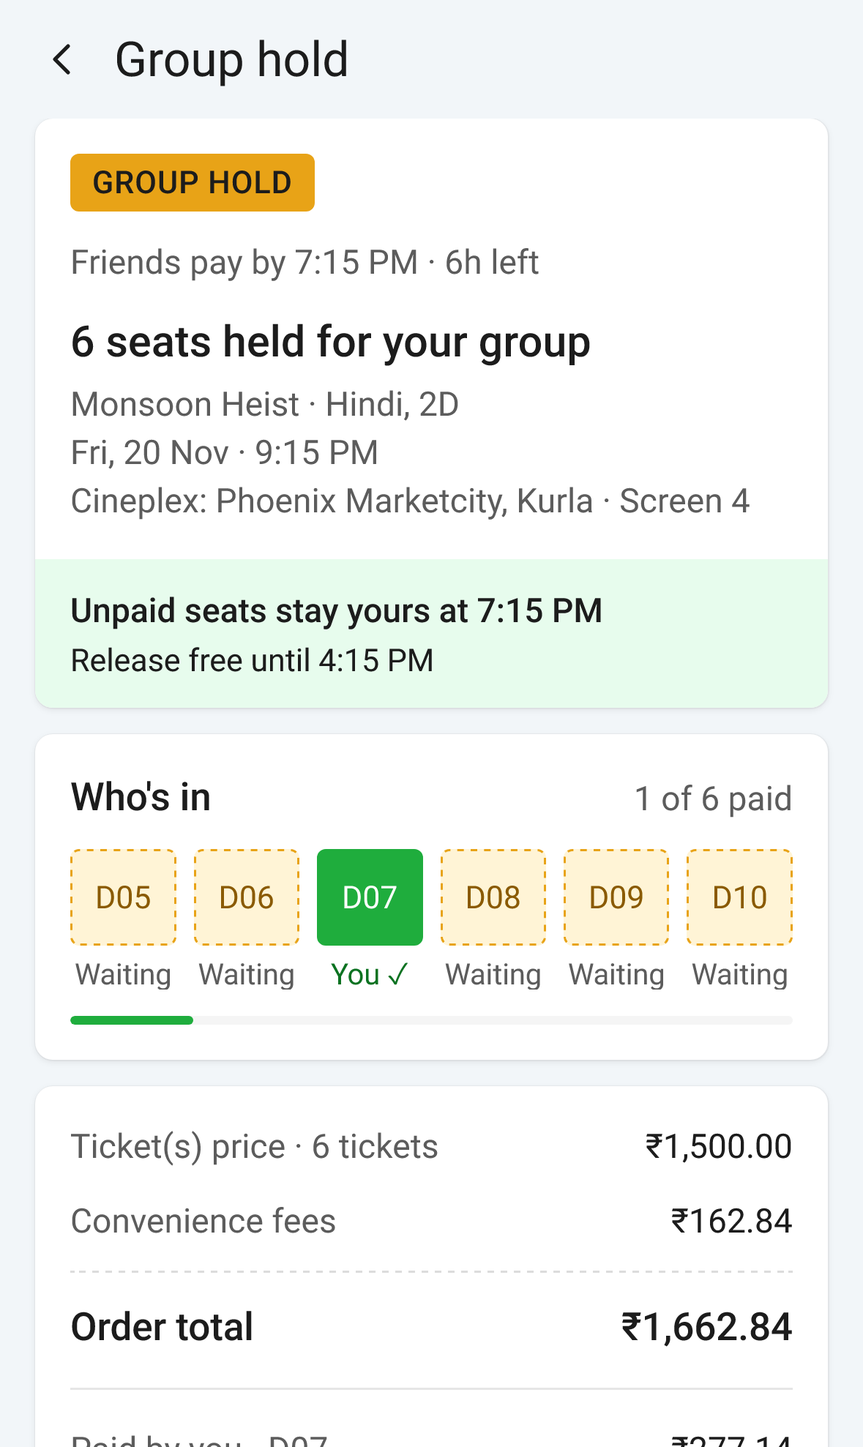
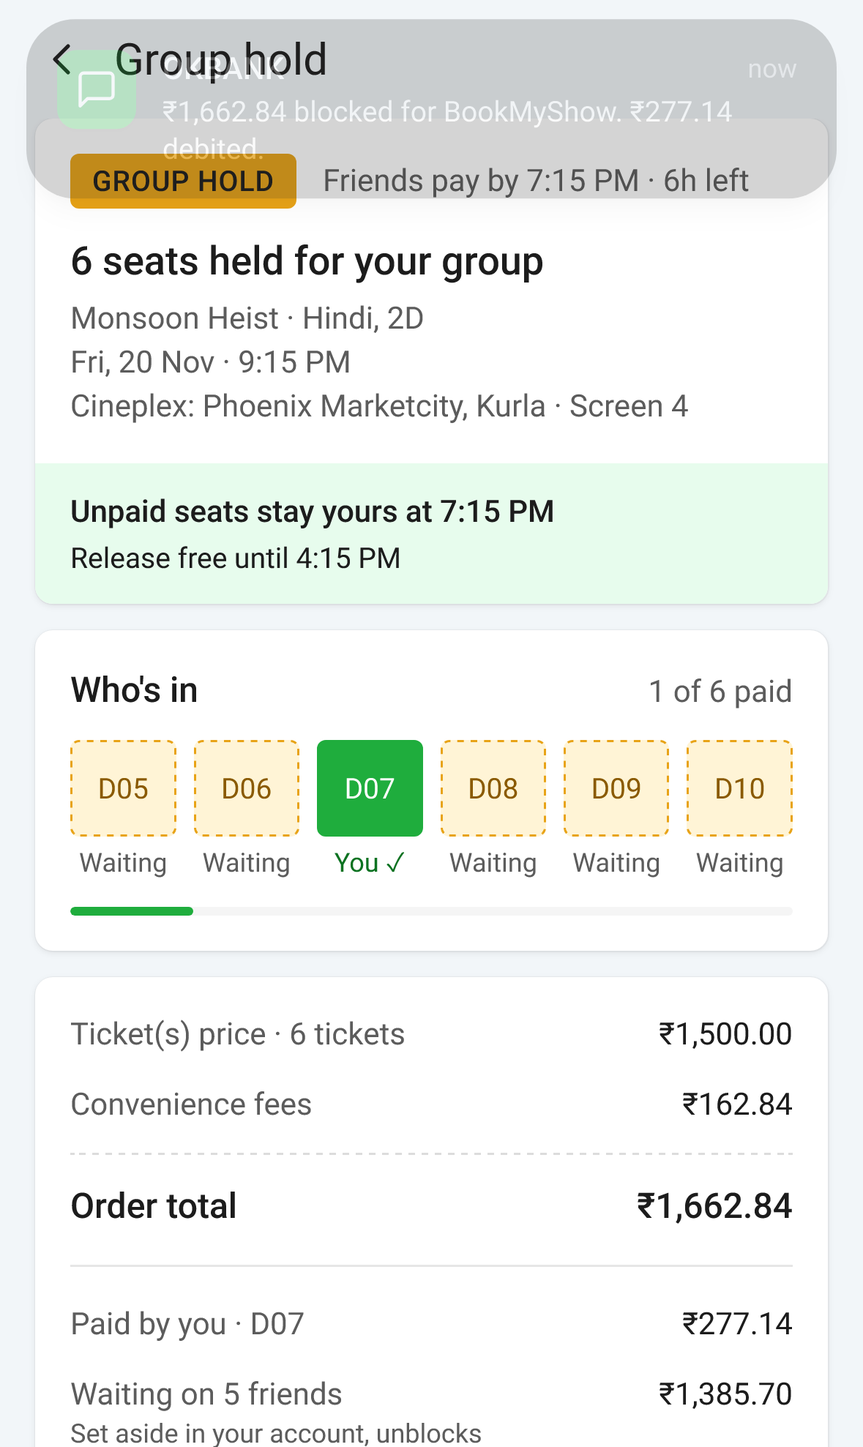
08 failures, QA, README
- Payment fallback ladder (UPI Reserve Pay -> card pre-auth -> pay all now, refunded per friend)
- Every remaining spec section 5 failure reachable from Try a failure (21 items, 4 groups) with plain copy
- QA: accessible names, 44 pt targets, 4.5:1 contrast (brand fills logged), focus trap, reduced motion
- Production: dev-only overlay, no reference screens in dist, own icon, title, manifest
- README for reviewers; decisions D-109 to D-120

diff --git a/README.md b/README.md
@@ -1,74 +1,105 @@
-# Group Hold prototype: starter kit
+# Group Hold · a BookMyShow prototype
 
-Everything an AI coding agent needs to build the BookMyShow **Group Hold** prototype for iPhone 17, with the same inputs for **Antigravity** and **Claude Code** so you can compare their outputs.
+**Group Hold** lets one person lock seats for a group without paying for everyone. Rohan pays for his own seat and *blocks* (doesn't pay) his five friends' shares with one UPI PIN, so the seats are locked at once. He shares a link; each friend picks a seat and pays BookMyShow directly. Every time a friend pays, that share is unblocked in Rohan's account. At a deadline set by the show's demand, Rohan keeps or releases any unpaid seats, and the rest of the block is unblocked. **Every held seat ends up paid**, and nobody has to chase friends for money.
 
-## What's in the kit
+This is a high-fidelity, interactive prototype for a 48-hour product design assignment, built to look like the BookMyShow iOS app on an iPhone 17 (402 × 874 pt). The film, cinema, people and banks are fictional. Nothing is charged.
 
-```
-AGENTS.md                      shared rules (both tools read this)
-CLAUDE.md                      Claude Code: imports AGENTS.md + its own verification loop
-GEMINI.md                      Antigravity: browser verification, plan artifacts
-.agents/rules/                 Antigravity modular rules (design fidelity, logic)
-.github/workflows/deploy.yml   GitHub Pages deploy on every push to main
-docs/spec.md                   THE spec: rules, timers, copy, demo data, failures, tutorial
-docs/design-system.md          tokens + component specs reconstructed from screenshots
-docs/tokens.css                CSS variables (the only colours components may use)
-docs/device-iphone17.md        402 × 874 frame, safe areas, real-iPhone behaviour
-reference/screens/             12 real BookMyShow screenshots, renamed by screen
-reference/README.md            what each screenshot is for, scale factor (1 px = 0.546 pt)
-prompts/antigravity/00–08      9 prompts, Antigravity wording
-prompts/claude-code/00–08      the same 9 prompts, Claude Code wording
-```
+## Live prototype
 
-## Prerequisites checklist
+**https://jobeljiji-glitch.github.io/Navi-Design-Task/**
 
-**Accounts and tools**
-- [ ] GitHub account; **public** repo (free GitHub Pages needs public, or use Vercel for private)
-- [ ] Node.js **22 LTS** and Git installed (Claude Code's npm install needs Node 22+)
-- [ ] Antigravity installed and signed in
-- [ ] Claude Code installed and signed in (needs a Pro, Max, Team or Enterprise plan). Windows: `irm https://claude.ai/install.ps1 | iex` in PowerShell
-- [ ] An iPhone for the final check (Safari, Add to Home Screen)
+> **Best view:** open the link on your phone, then **Share → Add to Home Screen** and launch it from there. It opens full screen like the real app, with correct safe areas. On a laptop you get the phone in the middle with the story on the left and the controls on the right.
 
-**Setup (10 minutes)**
-1. Create **two** public repos to compare fairly, e.g. `group-hold-ag` and `group-hold-cc`.
-2. Copy this whole kit into the root of each and push.
-3. In each repo: Settings → Pages → Source: **GitHub Actions**.
-4. Open `group-hold-ag` in Antigravity and `group-hold-cc` in Claude Code.
-5. Run the prompts in order, one at a time: `00` → `08`. Don't start the next one until the previous one's acceptance checks pass.
-6. After each prompt, compare both deploys on your phone and keep notes on which is closer. You can also switch tools midway: both repos share the same structure.
+## The guided demo (2 minutes)
 
-**Windows step-by-step:** see `SETUP-WINDOWS.md`.
+1. Open the link. The intro card offers **Start tour** or **Explore on my own**.
+2. The tour has 14 steps on one phone that changes hands: Rohan books and holds the seats, Amit pays from the shared link, Neha can't make it, the deadline arrives, and Kabir pays late.
+3. In each coach bubble, **Next** performs the highlighted tap for you; you can also tap the real element yourself. **Back** replays the previous step. **Skip tour** (or Esc) leaves everything usable. On a keyboard, ← and → move between steps.
+4. At the end, the done card shows the payoff: what Rohan paid in the end, how many friends he chased, and how many seats were left empty.
+5. **Explore freely** opens the controls. On a laptop they're in the right column; on a phone, tap the **Demo** bar at the top. From there you can switch phones (Rohan, Amit, Sana, Priya, Neha, Kabir), move the clock, jump to a moment, try a failure, or restart. **Replay** starts the tour again.
 
-**Optional, but improves accuracy a lot.** Capture these extra screenshots (iPhone, same way as before) and add them to `reference/screens/` with a line in `reference/README.md`:
-- [ ] **M-ticket / booking confirmed** screen (pattern for the friend's ticket)
-- [ ] **A real BookMyShow link shared into a WhatsApp chat** (share any movie from the app): the real preview card layout
-- [ ] BookMyShow **login / OTP** screen (pattern for the friend's phone verification)
+## Deep links to key moments
 
-## How accuracy is achieved (and why it beats prompting alone)
+Base: `https://jobeljiji-glitch.github.io/Navi-Design-Task/`
 
-1. **Screenshots are the source of truth.** No official BookMyShow design kit exists; online "UI kits" are unofficial redesigns, so the kit doesn't use them.
-2. **Measured tokens.** Colours were sampled and sizes measured from the screenshots (see `docs/design-system.md`), each marked measured or estimated.
-3. **Rebuild real screens first** (prompt 03). New screens then inherit a proven visual language.
-4. **Reference overlay** in the app (`?overlay=1`, press `O`): the real screenshot over your build, with an opacity slider and difference mode.
-5. **Screenshot loop** after every screen (Antigravity's built-in browser; Playwright screenshots for Claude Code).
-6. **Spec-driven logic with tests** (prompt 01), so screens never invent behaviour.
-7. **Real-device check** on GitHub Pages at the end.
-
-## Rough time budget
-
-| Prompt | Hours |
+| Moment | Link |
 | --- | --- |
-| 00 setup | 0.5 |
-| 01 logic | 1.5 |
-| 02 design system | 1.5 |
-| 03 baseline screens | 1.5 |
-| 04 Rohan hold | 1.5 |
-| 05 share + friend | 1.5 |
-| 06 board + deadline | 1.5 |
-| 07 demo stage + tutorial | 1.5 |
-| 08 failures + QA | 1 |
-| **Total** | **≈ 12** (fits the Build phase H20–H32) |
+| Guided tour, from the start | [`#/`](https://jobeljiji-glitch.github.io/Navi-Design-Task/#/) |
+| Tour at step N (1–14) | [`#/?step=3`](https://jobeljiji-glitch.github.io/Navi-Design-Task/#/?step=3) |
+| Group status board | [`#/?explore=1&moment=board`](https://jobeljiji-glitch.github.io/Navi-Design-Task/#/?explore=1&moment=board) |
+| Release a seat (Neha can't make it) | [`#/?explore=1&moment=release`](https://jobeljiji-glitch.github.io/Navi-Design-Task/#/?explore=1&moment=release) |
+| 30 minutes left: keep or release | [`#/?explore=1&moment=t30`](https://jobeljiji-glitch.github.io/Navi-Design-Task/#/?explore=1&moment=t30) |
+| Deadline: settlement animation | [`#/?explore=1&moment=settlement`](https://jobeljiji-glitch.github.io/Navi-Design-Task/#/?explore=1&moment=settlement) |
+| Receipt ("Your group is set") | [`#/?explore=1&moment=receipt`](https://jobeljiji-glitch.github.io/Navi-Design-Task/#/?explore=1&moment=receipt) |
+| Late payer (Kabir pays for the kept seat) | [`#/?explore=1&moment=late`](https://jobeljiji-glitch.github.io/Navi-Design-Task/#/?explore=1&moment=late) |
+| A friend's pay page on its own (no frame) | [`#/friend/amit`](https://jobeljiji-glitch.github.io/Navi-Design-Task/#/friend/amit) |
+| Component gallery | [`#/kit`](https://jobeljiji-glitch.github.io/Navi-Design-Task/#/kit) |
 
-## Notes
-- Everything in the prototype is fictional: film "Monsoon Heist", "Cineplex" cinema, friends' names. No real posters or logos.
-- If you change a decision, change `docs/spec.md` first, then tell the agent to re-read it.
+### Failure states
+
+Each one is also under **Try a failure** in the demo controls. Link pattern: `#/?explore=1&failure=<id>`.
+
+| Failure | id | What you see |
+| --- | --- | --- |
+| Less than 3 h to the show (#1) | [`under-3h`](https://jobeljiji-glitch.github.io/Navi-Design-Task/#/?explore=1&failure=under-3h) | Tap **Hold for group**: "Group holds close 3 hours before the show". Pay is still there. |
+| Group holds full on a high-demand show (#2) | [`cap`](https://jobeljiji-glitch.github.io/Navi-Design-Task/#/?explore=1&failure=cap) | "Group holds are full for this show. Book now to keep these seats." |
+| Second hold on the same show (#3) | [`second-hold`](https://jobeljiji-glitch.github.io/Navi-Design-Task/#/?explore=1&failure=second-hold) | "You're already holding seats for this show." + **View hold** |
+| 2 holds already running on the account | [`two-holds`](https://jobeljiji-glitch.github.io/Navi-Design-Task/#/?explore=1&failure=two-holds) | "You already have 2 group holds running. Book these seats now, or finish a hold first." |
+| Fewer than 3 seats | [`two-seats`](https://jobeljiji-glitch.github.io/Navi-Design-Task/#/?explore=1&failure=two-seats) | Hold for group is hidden; "Group holds need 3 or more seats." |
+| Bank can't block (#4, #5): card instead | [`no-blocking`](https://jobeljiji-glitch.github.io/Navi-Design-Task/#/?explore=1&failure=no-blocking) | Payment ladder rung 2: hold ₹1,662.84 on a card, ₹277.14 charged now |
+| No card hold either (#4): pay all now | [`no-card`](https://jobeljiji-glitch.github.io/Navi-Design-Task/#/?explore=1&failure=no-card) | Rung 3: Pay ₹1,662.84; "Refunded ₹1,385.70 · as each friend pays" |
+| UPI block declined (#6) | [`upi-declined`](https://jobeljiji-glitch.github.io/Navi-Design-Task/#/?explore=1&failure=upi-declined) | "Block not approved. Try again or pay for all 6." / "We're holding these seats for you until 1:25 PM." |
+| Bank doesn't respond | [`bank-timeout`](https://jobeljiji-glitch.github.io/Navi-Design-Task/#/?explore=1&failure=bank-timeout) | Approve with any PIN; "Your bank didn't respond, so nothing was set aside or charged." |
+| Own payment fails, block works (#7) | [`own-fails`](https://jobeljiji-glitch.github.io/Navi-Design-Task/#/?explore=1&failure=own-fails) | Approve with any PIN; the whole hold is undone, seats stay selected |
+| Rohan cancels the block in his UPI app (#8) | [`cancel-block`](https://jobeljiji-glitch.github.io/Navi-Design-Task/#/?explore=1&failure=cancel-block) | Alert: unpaid seats released, paid seats unaffected |
+| Two friends pick the same seat (#10) | [`conflict`](https://jobeljiji-glitch.github.io/Navi-Design-Task/#/?explore=1&failure=conflict) | "Someone's paying for D09 right now. Pick another seat." |
+| A friend's bank declines (#12) | [`friend-fails`](https://jobeljiji-glitch.github.io/Navi-Design-Task/#/?explore=1&failure=friend-fails) | "Payment didn't go through. D10 is still yours for 5 minutes." |
+| "Can't make it" (#17) | [`cant-make-it`](https://jobeljiji-glitch.github.io/Navi-Design-Task/#/?explore=1&failure=cant-make-it) | Rohan is told at once: release a seat or keep it |
+| Payment pending at the deadline (#19) | [`pending`](https://jobeljiji-glitch.github.io/Navi-Design-Task/#/?explore=1&failure=pending) | 10-minute grace; the seat stays theirs |
+| Nobody responds (#20) | [`nobody`](https://jobeljiji-glitch.github.io/Navi-Design-Task/#/?explore=1&failure=nobody) | Default keep: unpaid seats charged from the block |
+| Late friend pays for a kept seat (#23) | [`late`](https://jobeljiji-glitch.github.io/Navi-Design-Task/#/?explore=1&failure=late) | Ticket moves to Kabir; Rohan refunded ₹277.14 |
+| Late payment still pending at showtime | [`showtime-pending`](https://jobeljiji-glitch.github.io/Navi-Design-Task/#/?explore=1&failure=showtime-pending) | The seat stays Kabir's while the bank confirms (until 9:25 PM); it clears a moment later |
+| …and the bank never confirms | [`showtime-expired`](https://jobeljiji-glitch.github.io/Navi-Design-Task/#/?explore=1&failure=showtime-expired) | Kabir isn't charged; Rohan still has the ticket |
+| Link opened after the show (#25) | [`after-show`](https://jobeljiji-glitch.github.io/Navi-Design-Task/#/?explore=1&failure=after-show) | "This show has started." + a way on (See other shows) |
+| Cinema cancels the show (#27) | [`cinema`](https://jobeljiji-glitch.github.io/Navi-Design-Task/#/?explore=1&failure=cinema) | Full refund for everyone, including fees; block released |
+
+## What's simulated
+
+- **No backend, no real money.** All state lives in the browser and resets on reload or with **Restart demo**.
+- **Clock:** a simulated clock (Fri 20 Nov 2026, from 1:10 PM). The controls jump it to halfway, T−30, the deadline, after grace, 8:10 PM or showtime, and the timers fire as they would.
+- **Banks and UPI:** a generic UPI app (any 4-digit PIN works), a generic card check (any code), and a fictional bank ("OKBANK") that sends SMS banners. UPI Reserve Pay, card pre-authorisation and refunds are modelled, not connected.
+- **Friends:** five fictional friends. Phone OTP accepts any 4 digits. The chat is labelled "Chat (simulated)".
+- **Out of scope:** home feed, search, food, offers, reviews, login, settings and a real backend.
+
+## Tech note
+
+- Vite + React 18 + TypeScript (strict), Tailwind mapped to CSS variables in `docs/tokens.css` (no raw colours in components), Zustand, Motion, lucide-react, qrcode.react. Hash routing for GitHub Pages; deployed by `.github/workflows/deploy.yml` on every push to `main`.
+- **Logic is pure and tested.** `src/logic/` holds no React and never reads the real time. Five reducer layers each wrap the previous one: base rules → `holdFlow` → `friendFlow` → `boardFlow` → `failureFlow`. Screens only read selectors and dispatch actions. Money is integer paise.
+- **Tests:** `npm test` (Vitest, 115 tests: spec §1 scripted outcome, every §3 rule, every §5 failure, the tour, a copy lint for banned wording and weights, and "friend-facing screens never name unpaid friends"). `npm run test:e2e` (Playwright, WebKit + Chromium on an iPhone viewport: cards never clip at 110 % text, accessibility audit on every route and failure covering names, 44 pt targets, 4.5:1 contrast, weights and focus, plus mobile bar and top-chrome checks).
+- **Bundle (production, gzip):** entry 55.9 kB; each route loads on demand (demo stage 14.2 kB, Rohan's flow 19.7 kB, friend flow 6.2 kB, plus shared chunks). The reference overlay and reference screenshots are dev-only and aren't shipped.
+- Decisions not covered by the spec are logged one line each in `docs/decisions.md`.
+
+## Run it locally
+
+```bash
+npm install
+npm run dev          # http://localhost:5173/Navi-Design-Task/
+npm test             # logic tests
+npm run test:e2e     # layout + accessibility (starts its own dev server)
+npm run build        # production build in dist/
+```
+
+Dev only: add `?overlay=1` (or press `O`) to compare a screen with its reference screenshot.
+
+## Repo layout
+
+```
+src/logic/   pure domain: rules, reducers, selectors, money, script, tour (unit-tested)
+src/store/   Zustand store over the reducer stack
+src/ds/      design-system components (tokens only)
+src/screens/ rohan/, friend/, chat/
+src/demo/    demo stage, coach marks, controls
+docs/        spec, design system, tokens, device notes, decisions
+reference/   real-app screenshots used for fidelity checks (not shipped)
+prompts/     the build prompts this prototype was made from
+```

diff --git a/docs/decisions.md b/docs/decisions.md
@@ -112,3 +112,15 @@ This file is maintained by agents. Each entry records a choice that isn't obviou
 | D-106 | 07b Phone stage = 100dvh column [demo bar][app viewport] | Supersedes D-098. Real-iPhone bug: the bar was stacked over a full-height fixed frame, pushing screens down ~60 pt and clipping bottom CTAs and sheets. Now on ≤ 430 px the stage is a flex column of exactly 100dvh: the bar (when open) is in the flow, below `env(safe-area-inset-top)`, and the app viewport is `flex:1; min-height:0`. Its measured height is published as `--app-h` (ResizeObserver on the stage column; `:root` default 100dvh, 100vh fallback). The full-screen DeviceFrame is sized from `--app-h` (standalone: fixed, top 0, `height: var(--app-h)`; inside the stage: absolute, inset 0), so screens, sticky footers, BottomSheets (88%), scrims, the interstitial (now absolute) and iOS banners all follow the app viewport. With the bar open the frame drops its own top inset; the bottom inset stays with the frame (`--sab`/`cta-safe`, no double counting). No 100vh/100dvh/h-screen remain inside screens. Desktop frame unchanged. |
 | D-107 | 07b Demo bar: 40 pt, collapsible | 40 pt (`--stage-bar`), 13 pt text: "Group Hold demo ⌃" · persona ▾ · clock ▾ · ⋯ (28 pt chips). Tapping the title collapses it to a 28 pt "Demo ⌄" tab at the top-right edge that overlays the app and takes no height; tapping the tab opens it again. Remembered for the session in sessionStorage, separately for the tour (default collapsed: the coach bubble has the controls) and explore (default open). Explore deep link `&phone=/rohan/…` opens the phone on a screen (tests). Guarded by `e2e/mobile-bar.spec.ts` (WebKit iPhone, bar open and collapsed): seat-layout Hold/Pay bar, hold-sheet CTA, Confirm "Continue" and the board's last action are inside the visual viewport and the app viewport, and nothing covers them; the app viewport reaches the screen bottom and the frame fills it exactly. |
 | D-108 | 07c Top chrome colour on iPhone | Audit: none of our overlays paint the top while inactive (interstitial, iOS banner and its backdrop blur, sheet scrims and the coach ring are unmounted when not in use; `e2e/top-chrome.spec.ts` checks the top band for gradients, backdrop filters, masks, translucent whites and dimmed full-width layers). The white wash came from the page shell: a fixed `theme-color: #ffffff`, status bar style `default` and a light html/body. Now `useTopChrome` sets `<meta name="theme-color">`, html and body to the colour at the top: the demo bar (`--stage-ink`) when it's open or the intro shows; the current screen's header, sampled under the inset (stage overlays ignored), when collapsed, re-sampled on persona/screen change; `--stage-bg` for framed layouts; white again when leaving the stage. Home-screen app: `apple-mobile-web-app-status-bar-style` = `black-translucent`; the bar extends up under the status bar (padding-top = inset), and with the bar collapsed (and on standalone /rohan, /friend routes) the full-screen frame paints the inset strip in `--stage-ink` as a top border, so the white status text stays readable and there is no white band. All top-inset uses read one variable, `--sat` (= `env(safe-area-inset-top)`), so tests can emulate a 59 pt notch. Bar text and chips are opaque: `--stage-ink-muted` #B8B8BD (9.3:1), `--chip-bg` #3A3A3C (were translucent white). Initial `theme-color` is #1C1C1C. |
+| D-109 | 08 Contrast: brand fills keep white text (user) | White text on BookMyShow's red (`--bms-red`, `--bms-red-strong`, 3.6:1) and green (`--showtime-green`, `--seat-selected`, `--badge-confirmed`, 3.0:1) stays as in the references: a logged exception to the 4.5:1 rule. The seat map keeps its own colours (green numbers, greyed sold seats = inactive). Everything else now reaches 4.5:1: `--bms-red-text` #D04B5E → #C43A50 (link text on white and tinted bands), outline CTA text uses `--bms-red-text` (brand red stays on the border), `--text-tertiary` #8A8A8A → #6E6E6E, GROUP HOLD badge text dark (`--badge-hold-text`, white was 2.2:1), unavailable dates are `aria-disabled` with a new `--text-disabled` token (replaces a raw-hex fallback). Guarded by `e2e/qa.spec.ts`. |
+| D-110 | 08 Failure layer `src/logic/failureFlow.ts` | Same pattern as D-029/D-065/D-078: wraps `boardFlowReducer`; the store dispatches through it. Adds the payment ladder, Rohan's approval outcomes (`SET_NEXT_APPROVAL`: declined / timeout / own payment fails), plain 2-holds copy, the showtime grace for late payments, "Settled outside BMS" labels and `SET_DEMO_SETTINGS` for the limit triggers. Optional `failure` slice; `setDemoState()` resets it on jumps and deep links. Tested in `failure-flow.test.ts`. |
+| D-111 | 08 Payment fallback ladder (#4/#5) | UPI Reserve Pay → card pre-auth → pay all now, refunded per friend. With no bank blocking the draft starts on the card ("Hold ₹1,662.84 on your card" / "₹277.14 charged now for your seat"; approval screen "Approve a hold on your card", card ending 4021, any 4-digit code; SMS "₹1,662.84 held on your card ending 4021 by BookMyShow. ₹277.14 charged."). With no card hold either: "Pay ₹1,662.84". An amber band says why ("Your bank can't set money aside on UPI" / "Your bank and card can't hold money"). Reserve Pay can't be picked by hand when the bank lacks it. Fallback column copy fixed: "REFUNDED ₹1,385.70 · as each friend pays" (was "COMES BACK … As 5 friends pay"). CTA amounts equal the next screen's on every rung (D-052). Two controller triggers (user). |
+| D-112 | 08 Decline / timeout copy (user) | #6: "Block not approved. Try again or pay for all 6." + "We're holding these seats for you until 1:25 PM." (not "kept": that word means Rohan pays for an unpaid seat). Bank timeout (draft): "Your bank didn't respond, so nothing was set aside or charged. Try again or pay for all 6.", after a 1.8 s "Waiting for your bank…". Both offer "Pay for all 6 instead" (moves to the pay-all rung). Copy lint bans "kept" next to lock/timer words. |
+| D-113 | 08 Own payment fails (#7) (user copy) | Never half a hold: the draft is dropped, nothing blocked or debited, no SMS. iOS alert: "Your payment for D07 didn't go through. Nothing was set aside or charged — your seats are still selected." OK returns to the seat layout with D05–D10 still selected. |
+| D-114 | 08 "Show starting during grace" = late payment pending at showtime (user) | Deadline grace can't overlap the show (deadline ≤ show − 2 h). The real overlap is a late payment for a kept seat still with the bank at 9:15 PM. Same promise as the deadline grace: the seat stays theirs for 10 min ("The show has started, but D06 stays yours while your bank confirms, until 9:25 PM."). Cleared → ticket moves, Rohan refunded. Still pending at 9:25 → failed, not charged, no retry: "Your bank didn't confirm before the show started, so you weren't charged. Rohan still has the ticket for D06." + "Back to the chat". |
+| D-115 | 08 Hold-limit copy and surfaces | Limits stay toasts on the seat layout with Pay beside them (never a dead end); long toasts wrap and stay 4.5 s. 2 holds per account: "You already have 2 group holds running. Book these seats now, or finish a hold first." (draft, replaces "You have reached the maximum active holds limit."). Under 3 seats Hold for group stays hidden (spec §3) with a note "Group holds need 3 or more seats." With a live hold, picking *other* seats shows the normal bar so Hold for group can say "You're already holding seats for this show." + View hold. `/rohan/seats-selected?seats=…` deep link. |
+| D-116 | 08 After the show (#25, spec §3) | Friend page: "This show has started." + "Tickets for this show can't be bought any more. If you paid, your ticket is in your SMS." + **See other shows** (toast; out of scope). Receipt after showtime: the pay-link button is hidden (it was a disabled dead button); a kept seat gets "Mark D06 as settled outside BMS" → band "D06 · Settled outside BMS / A label for your records only. Nothing was charged or refunded." |
+| D-117 | 08 Try a failure: 21 items in 4 groups | Before the hold (#1, #2, #3, 2 holds, < 3 seats) · Paying for the hold (#4 card, #4 pay all, #6, timeout, #7, #8) · Friends paying (#10, #12, #17, #19) · After the deadline (#20, #23, pending at showtime ×2, #25, #27). Deep link `#/?explore=1&failure=<id>` (README, shots, e2e). Each runs through the real reducer stack. |
+| D-118 | 08 QA fixes | `hit-44` utility (invisible centred `::after`, max(box, 44 pt)) on targets the references draw smaller: showtime pills (39 pt), filter chips and Sort by (32 pt), showtimes icon buttons, "N Tickets", Club "Add", VIEW T&C, Convenience fees, the subtitle notice ×. Showtime pill: `overflow-hidden` removed so the hit area isn't clipped; raw `#FFFFFF` → `--bg-surface`. BottomSheet: focus moves in on open, Tab cycles inside, Esc closes (unless locked), focus returns on close (visible copy only). Rohan's iOS alert focuses OK. `MotionConfig reducedMotion="user"` now wraps the whole app, not only the stage. Seat tiles stay 20 pt (D-020; seat picking fills the group from one tap). MoneyLedger (kit only) and an unused selector field said "Most you could pay" → "Blocked on UPI" (D-080). |
+| D-119 | 08 Production hygiene | ReferenceOverlay is imported only when `import.meta.env.DEV` (no chunk in `dist/`). Reference screenshots are no longer copied into `public/` (22 files untracked); the dev server serves `reference/screens` at `<base>reference/*` (supersedes D-002). `/kit` stays (spec §7 route). Own icon (supersedes D-004): a white ticket with three seats, two filled (paid) and one dashed (held), on `--bms-red`; `public/favicon.svg`, `apple-touch-icon.png` 180 (full-bleed), manifest 192/512 rendered by `scripts/icons.mjs`. Title "Group Hold · BookMyShow prototype"; manifest theme/background #1C1C1C (D-108). |
+| D-120 | 08 Bundle sizes (gzip) | Entry 55.9 kB · shared TicketCard chunk (motion + QR + ds) 58.6 kB · PhoneRouter/shared 27.7 kB · RohanFlow 19.7 kB · DemoStage 14.2 kB · KeepReleaseStepper chunk 11.0 kB · KitPage 6.7 kB · FriendFlow 6.2 kB · CSS 7.6 kB. Total JS ≈ 200 kB gzip; no chunk over the 500 kB warning. |
